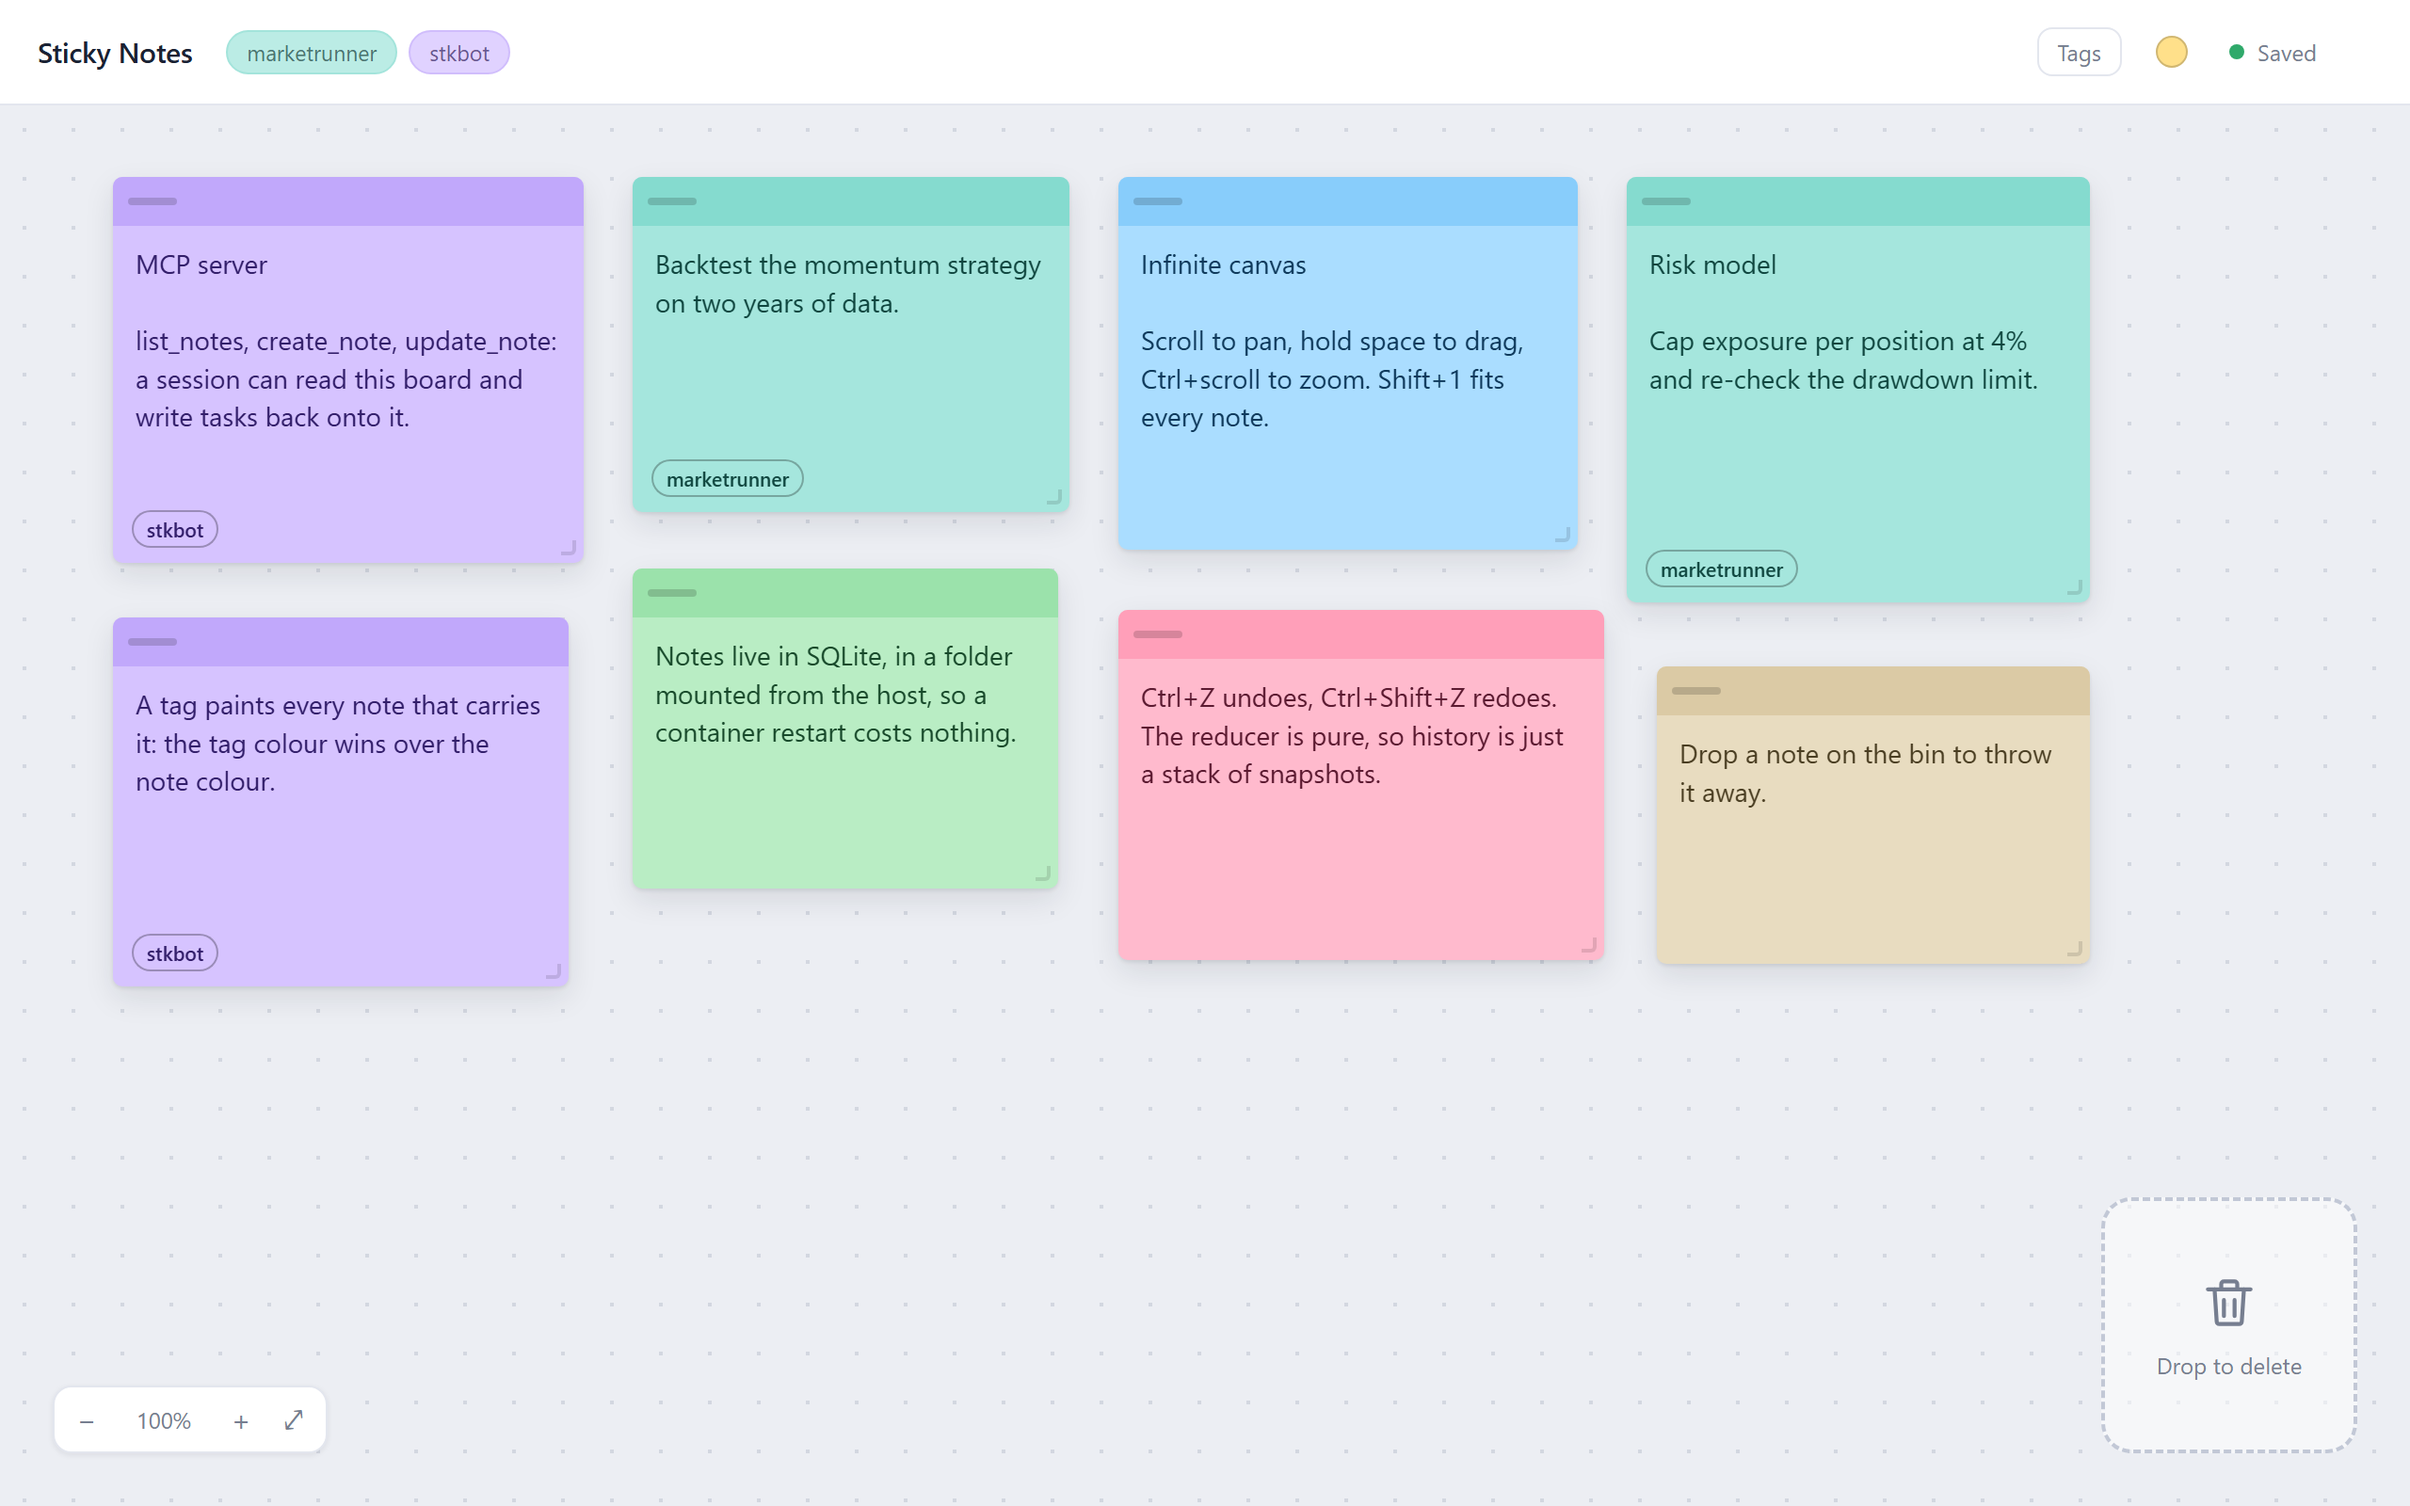
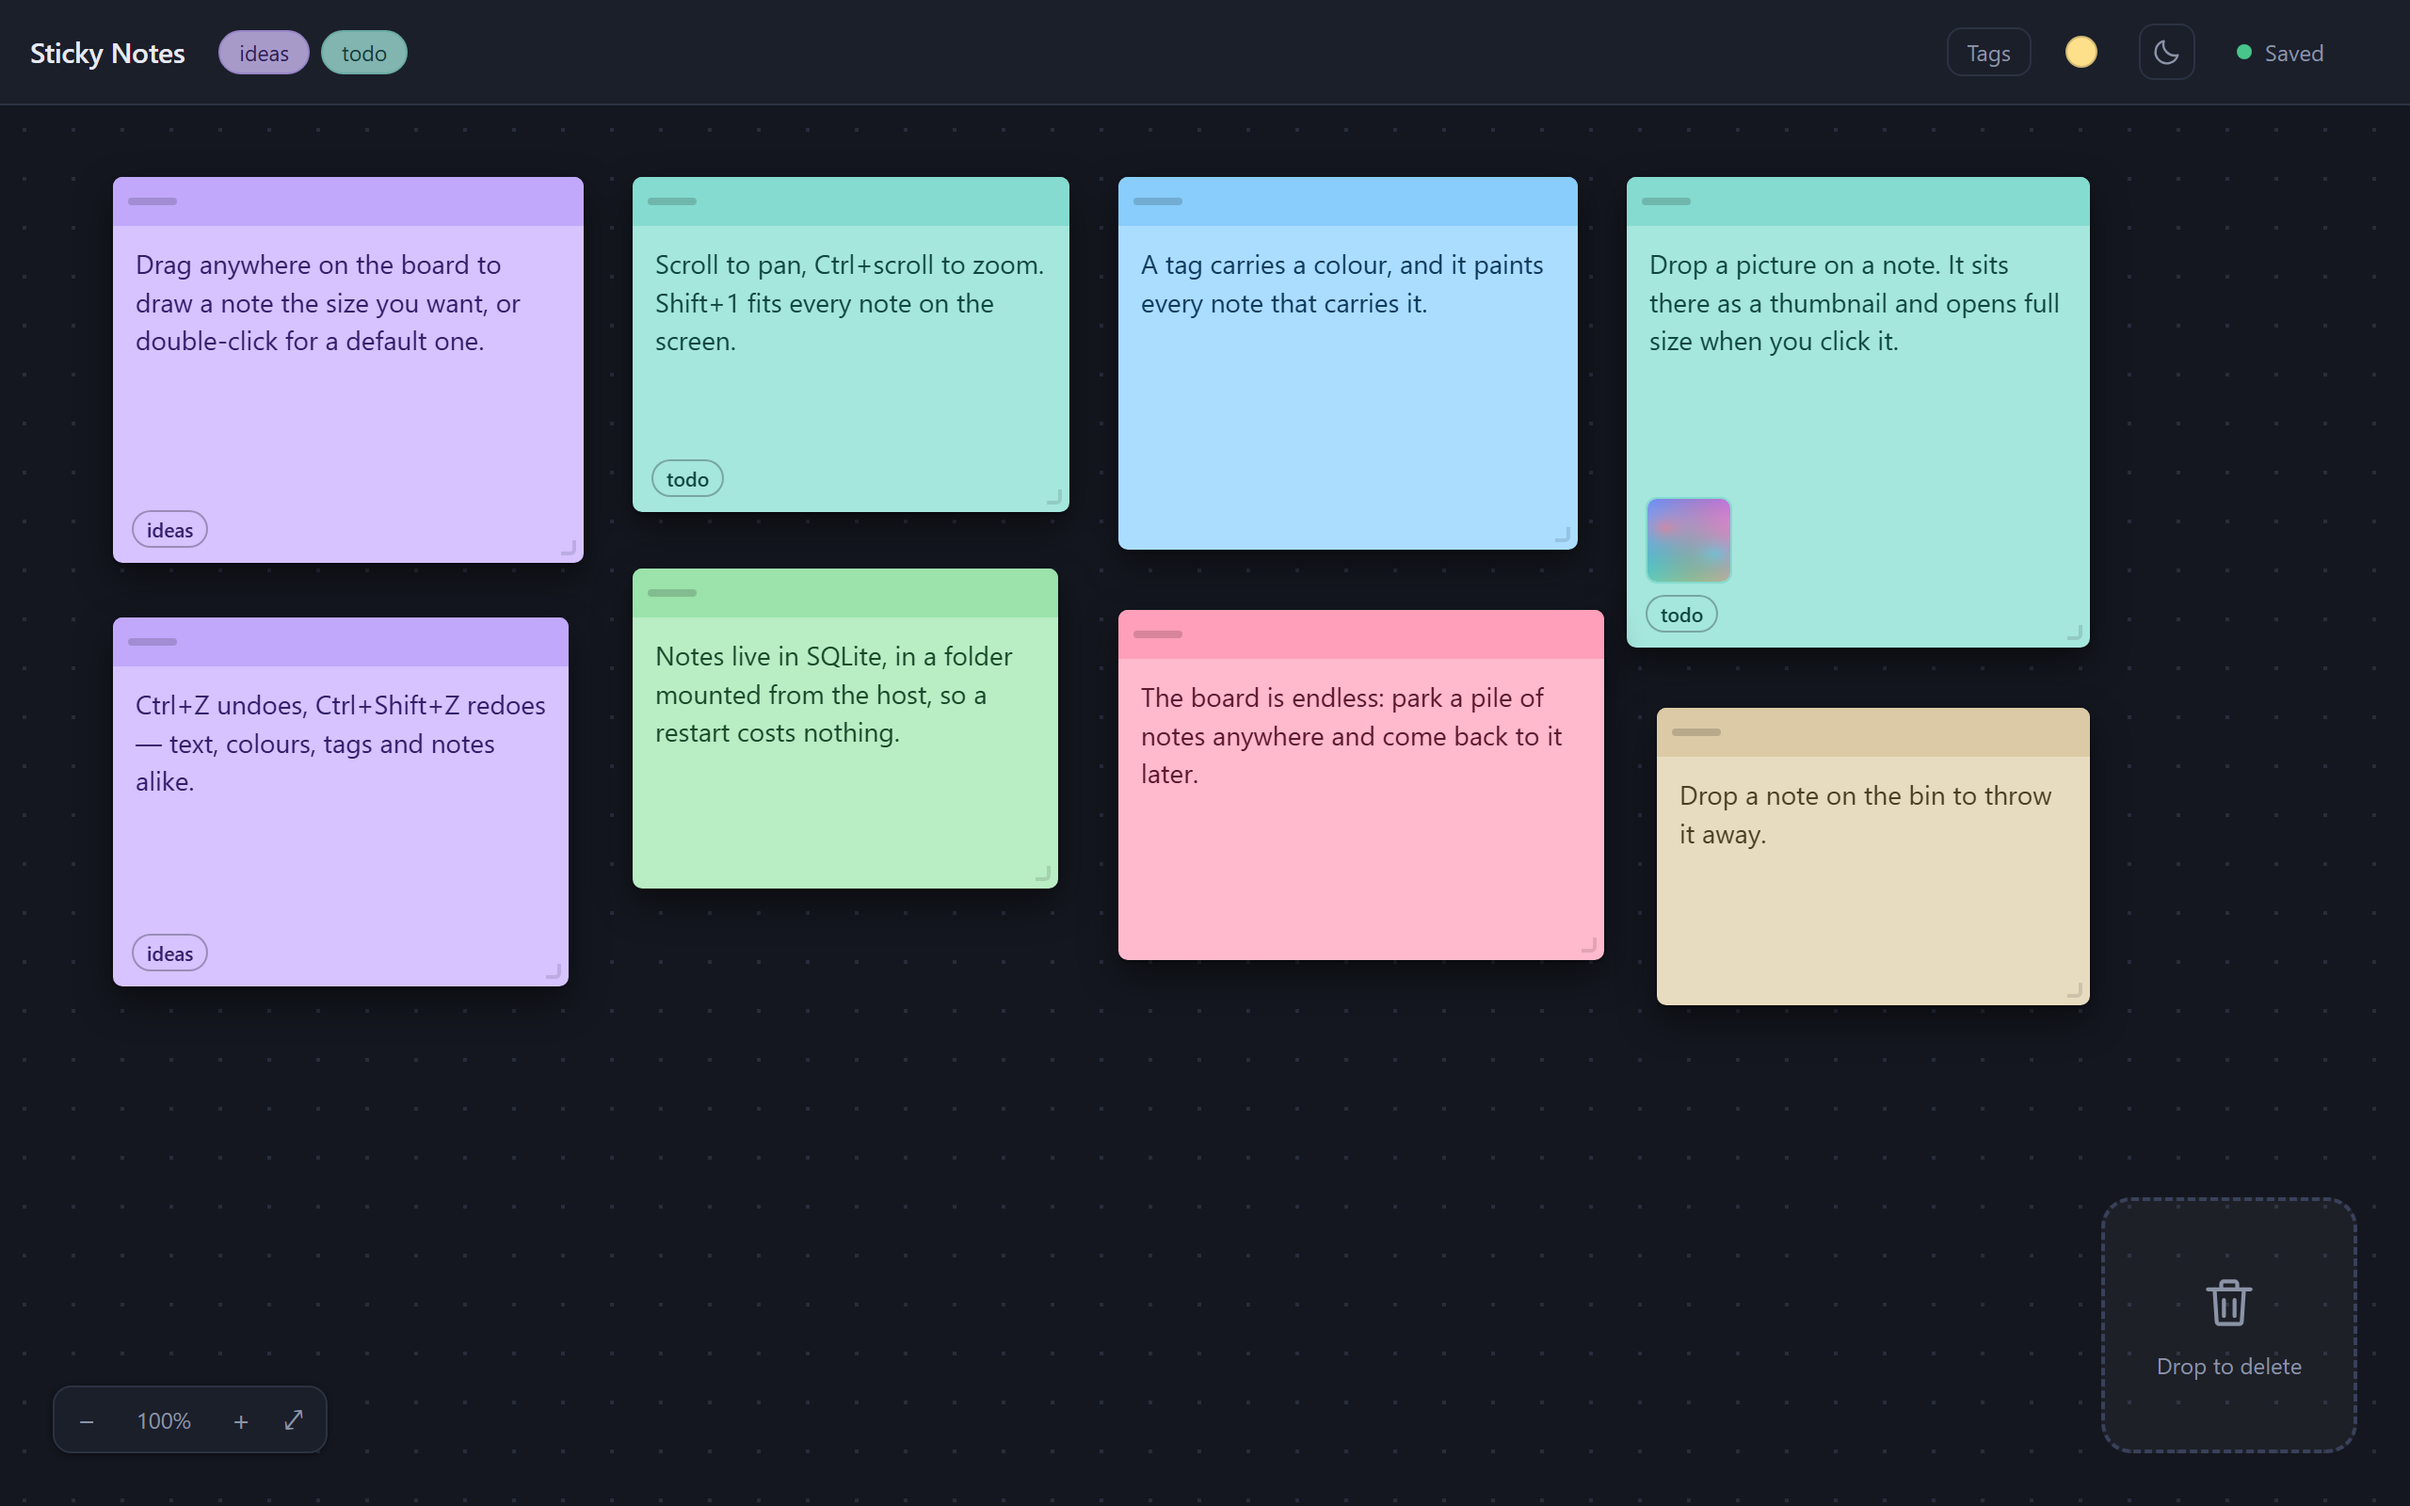
docs: refresh the readme and the screenshot

diff --git a/README.md b/README.md
@@ -2,8 +2,9 @@
 
 ![The board](screenshot.png)
 
-An endless board where sticky notes are created, moved, resized, tagged and thrown away with the
-mouse. A tag carries a colour, and it paints every note that carries it.
+An endless board where sticky notes are created, moved, resized, tagged, given pictures and thrown
+away with the mouse — or with a finger, on a phone. A tag carries a colour, and it paints every
+note that carries it. Light and dark, whichever you pick.
 
 ## Stack
 
@@ -27,5 +28,5 @@ npm run dev               # client on 5173, proxying /api
 npm test
 ```
 
-A Claude Code session reaches the same board through the MCP server in `mcp/`, declared in
-`.mcp.json`.
+The board is also reachable over an MCP connection: the server in `mcp/` exposes it as tools for
+reading notes and writing them back.
